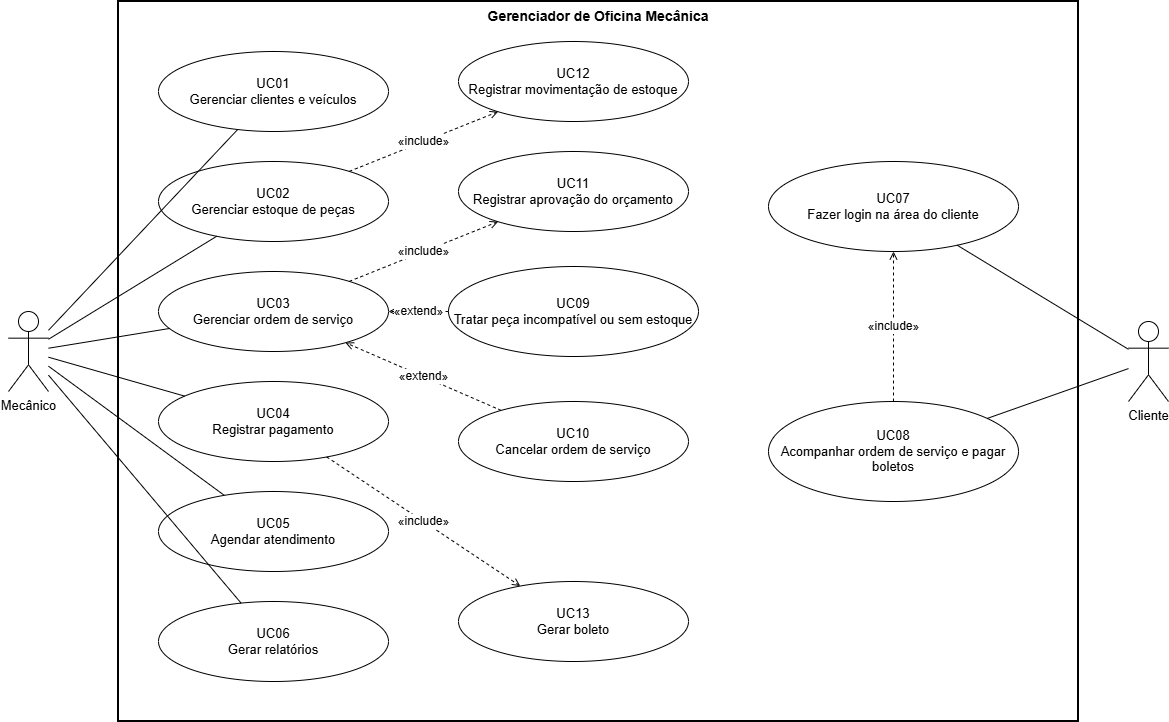
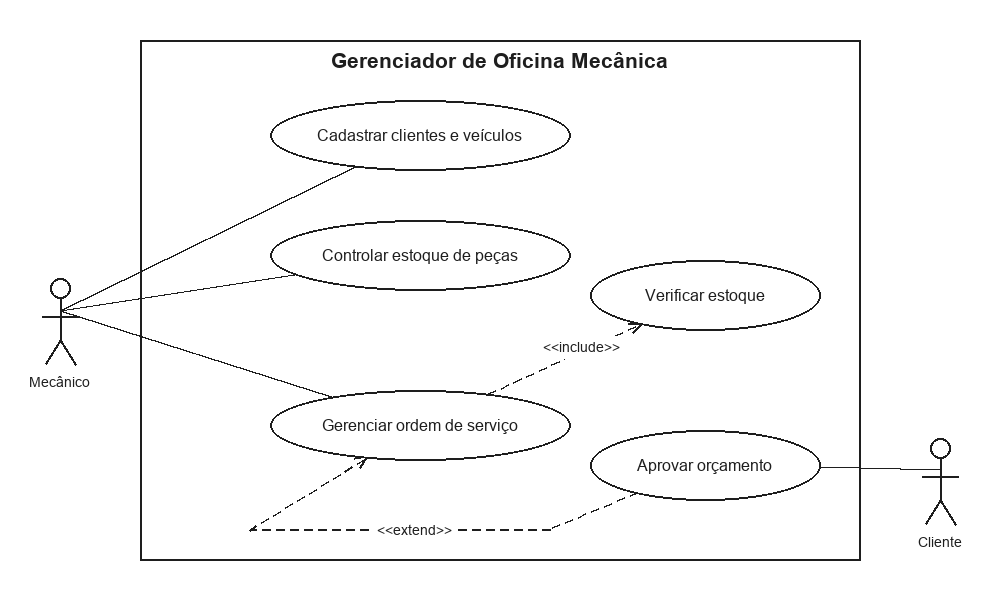
ajustes

diff --git a/documentation/requisitos-funcionais.md b/documentation/requisitos-funcionais.md
@@ -11,10 +11,10 @@
 | RF09 | O sistema deve permitir gerar um orçamento vinculado à ordem de serviço, com serviços e peças. |
 | RF10 | O sistema deve permitir registrar a aprovação ou recusa do orçamento pelo cliente. |
 | RF11 | O sistema deve permitir adicionar peças à ordem de serviço, dando baixa automática no estoque, ou registrar a encomenda da peça quando não houver estoque suficiente, e devolver ao estoque as peças da ordem quando ela for cancelada. |
-| RF12 | O sistema deve permitir atualizar o status da ordem de serviço (aberta, em orçamento, aprovada, aguardando peça, em execução, concluída, entregue, cancelada), respeitando as transições válidas definidas no diagrama de estados. |
+| RF12 | O sistema deve permitir que a oficina atualize a ordem conforme o serviço avança, usando os status aberta, em orçamento, aprovada, aguardando peça, em execução, concluída, entregue e cancelada. Só é possível iniciar o serviço depois da aprovação do orçamento e da chegada das peças encomendadas. Uma ordem entregue ou cancelada não pode ser alterada. |
 | RF13 | O sistema deve permitir agendar atendimentos com data, horário, cliente, veículo e serviço, e visualizá-los em um calendário. |
-| RF14 | O sistema deve gerar o boleto da ordem de serviço (valor e vencimento) e registrar seu pagamento (valor, forma, data e situação), sem integração com serviços bancários. |
+| RF14 | O sistema deve permitir cadastrar uma cobrança da ordem de serviço com valor e vencimento. Depois de receber a confirmação do pagamento, o mecânico pode registrar o valor, a forma e a data do recebimento. O pagamento acontece fora do sistema. |
 | RF15 | O sistema deve permitir que o cliente acesse sua área com login por CPF e senha. |
 | RF16 | O sistema deve permitir que o cliente acompanhe o status das suas ordens de serviço. |
-| RF17 | O sistema deve permitir que o cliente consulte seus boletos e realize o pagamento pela área do cliente, sendo o pagamento apenas registrado no sistema, sem integração bancária. |
+| RF17 | Na área do cliente, o sistema deve mostrar as cobranças da própria ordem e se estão em aberto ou pagas. O pagamento é feito fora do sistema e sua confirmação é registrada pelo mecânico. |
 | RF18 | O sistema deve gerar relatórios de clientes, veículos, estoque e ordens de serviço. |

diff --git a/documentation/regras-negocio.md b/documentation/regras-negocio.md
@@ -1,6 +1,6 @@
 | ID | Regra de negócio | Relacionada a |
 |----|------------------|---------------|
-| RN01 | O serviço só pode ser iniciado depois que o orçamento for aprovado pelo cliente. | RF09, RF10, RF12 |
-| RN02 | Uma peça só pode ser adicionada à ordem de serviço se houver quantidade suficiente em estoque. Quando não houver, o sistema deve permitir reservar a peça por meio de uma encomenda, e a ordem de serviço fica aguardando a chegada dela. | RF03, RF07, RF11, RF12 |
+| RN01 | O serviço só pode ser iniciado depois que o orçamento for aprovado pelo cliente, a ordem só pode passar para "em execução" após essa aprovação. | RF09, RF10, RF12 |
+| RN02 | A baixa no estoque ocorre quando a peça é adicionada à ordem e só é permitida se houver quantidade suficiente. Sem estoque, deve ser possível registrar uma encomenda e a ordem fica "aguardando peça" até sua chegada. Se a ordem for cancelada, as peças baixadas retornam ao estoque. | RF03, RF07, RF11, RF12 |
 | RN03 | Ao adicionar uma peça incompatível com o veículo, o sistema deve avisar, mas a decisão final é do mecânico. | RF04, RF11 |
 | RN04 | O cliente só pode visualizar as próprias ordens de serviço e boletos. | RF16, RF17 |
